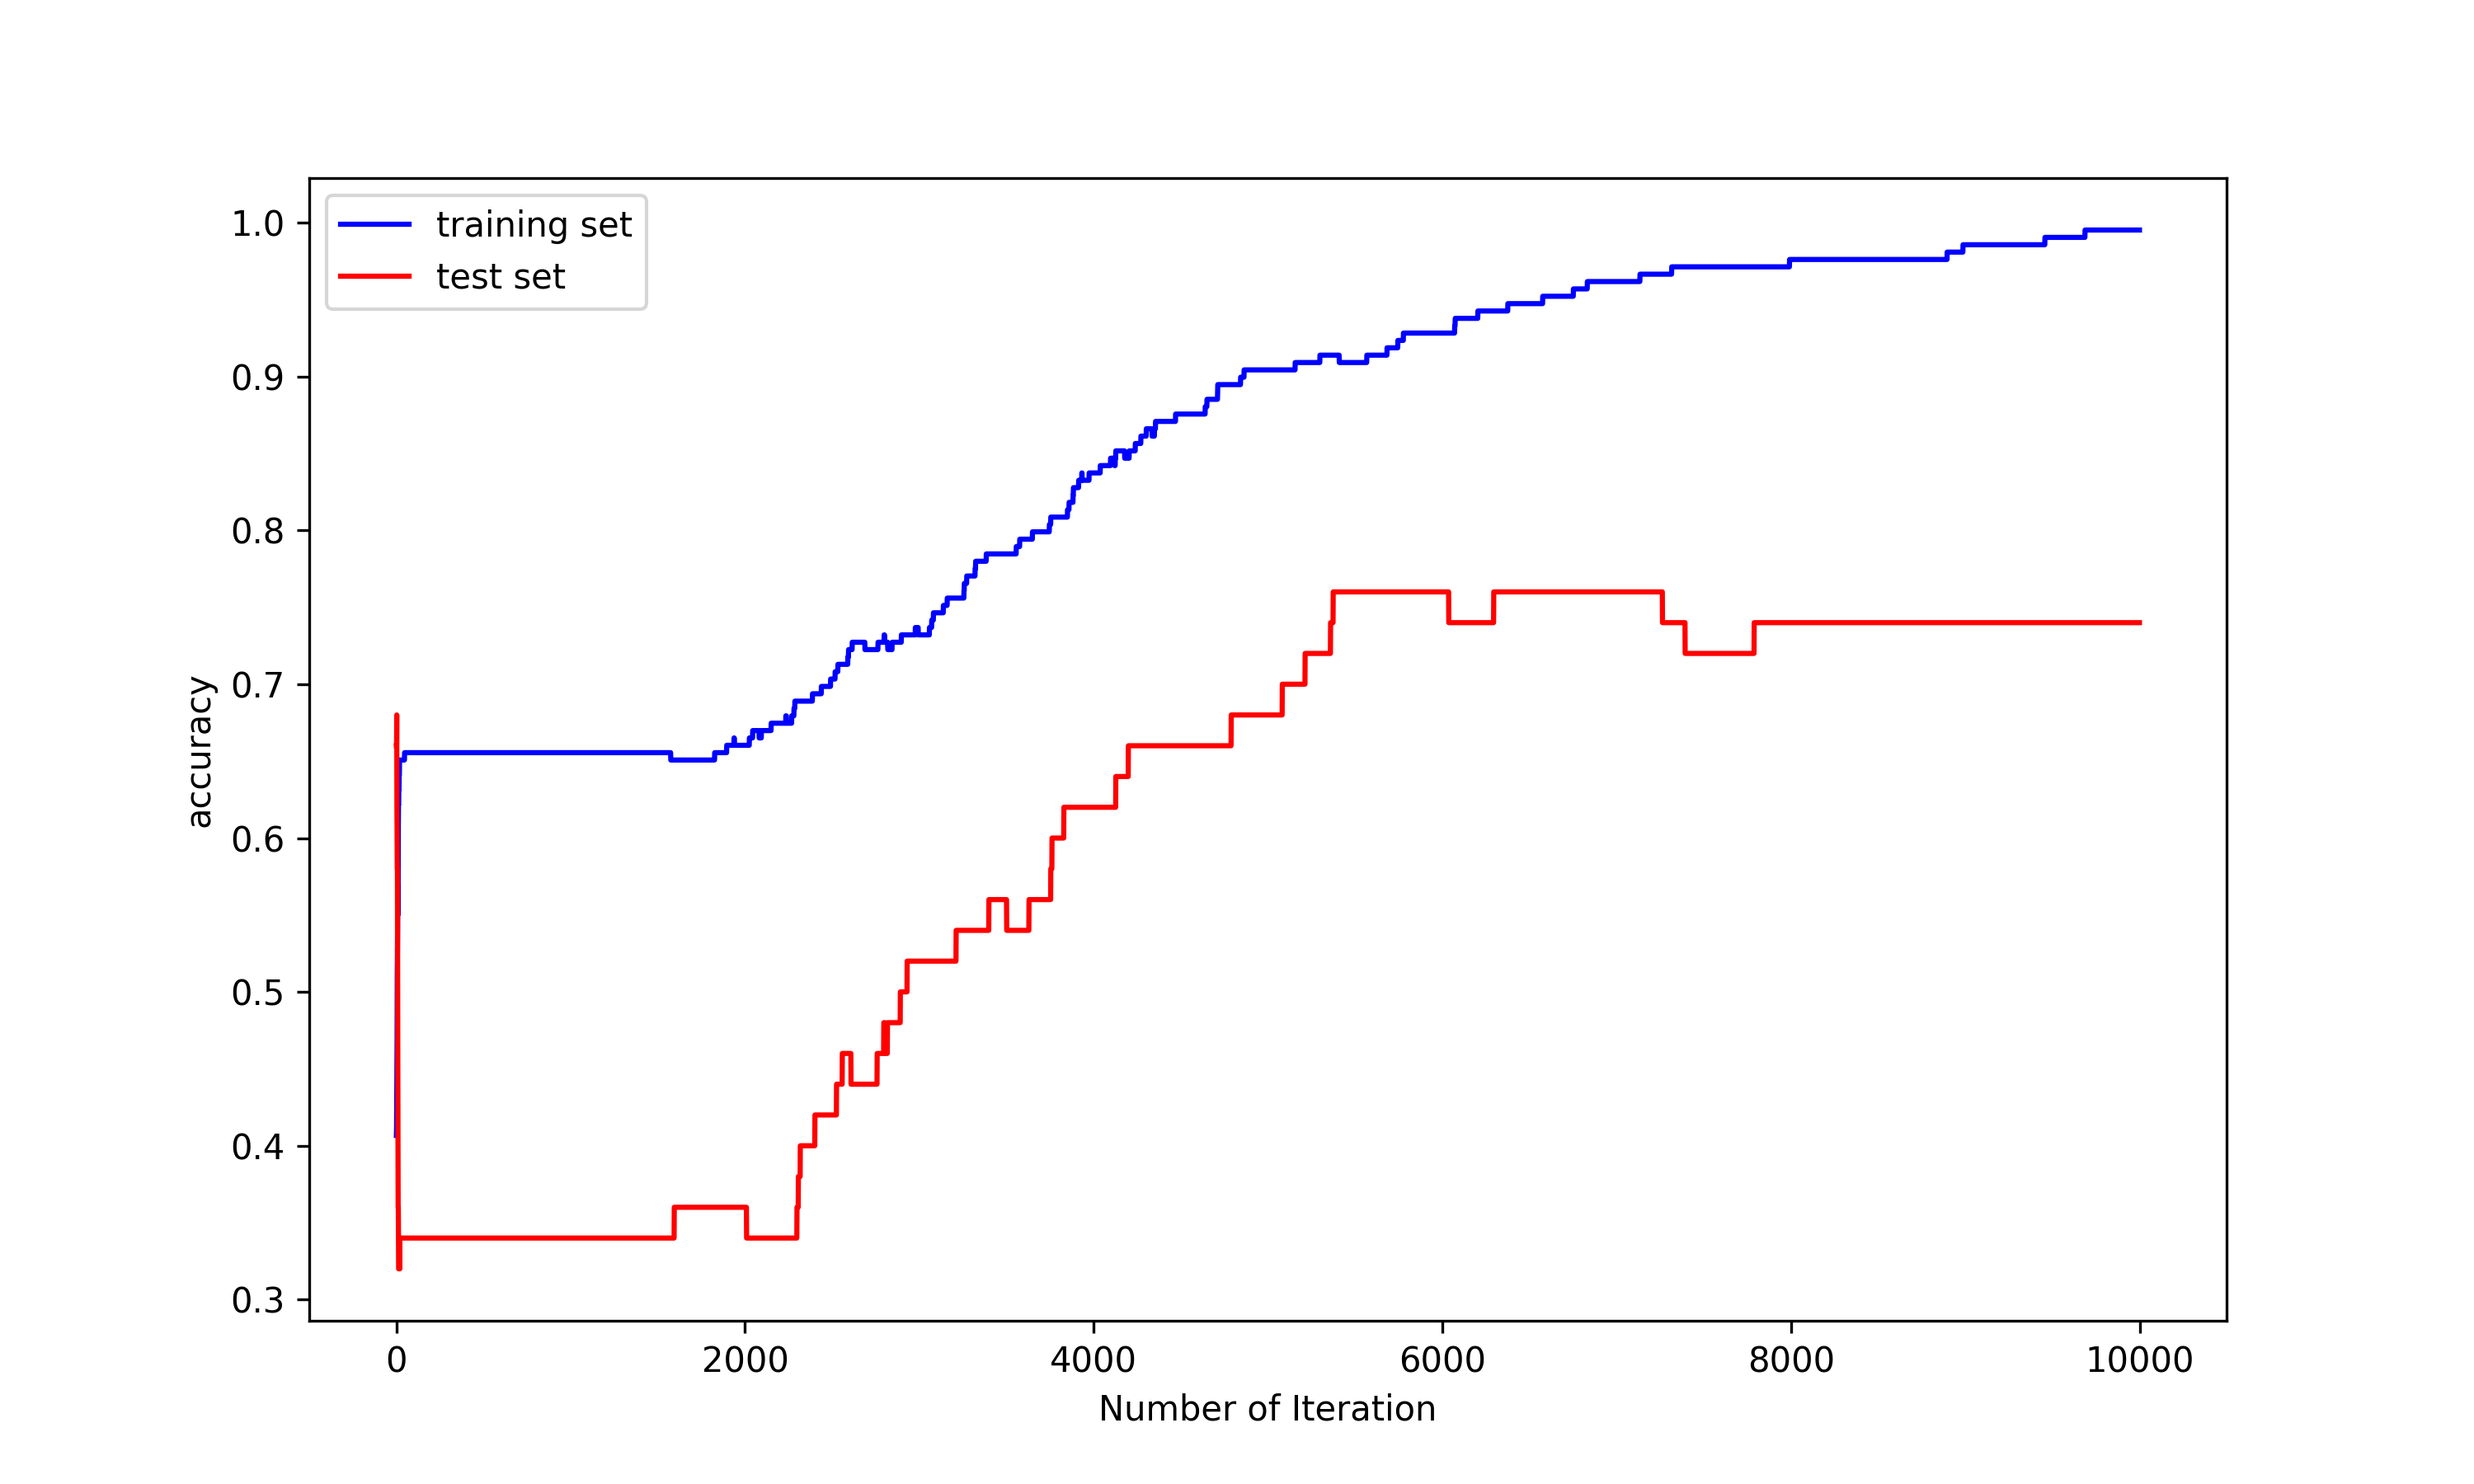
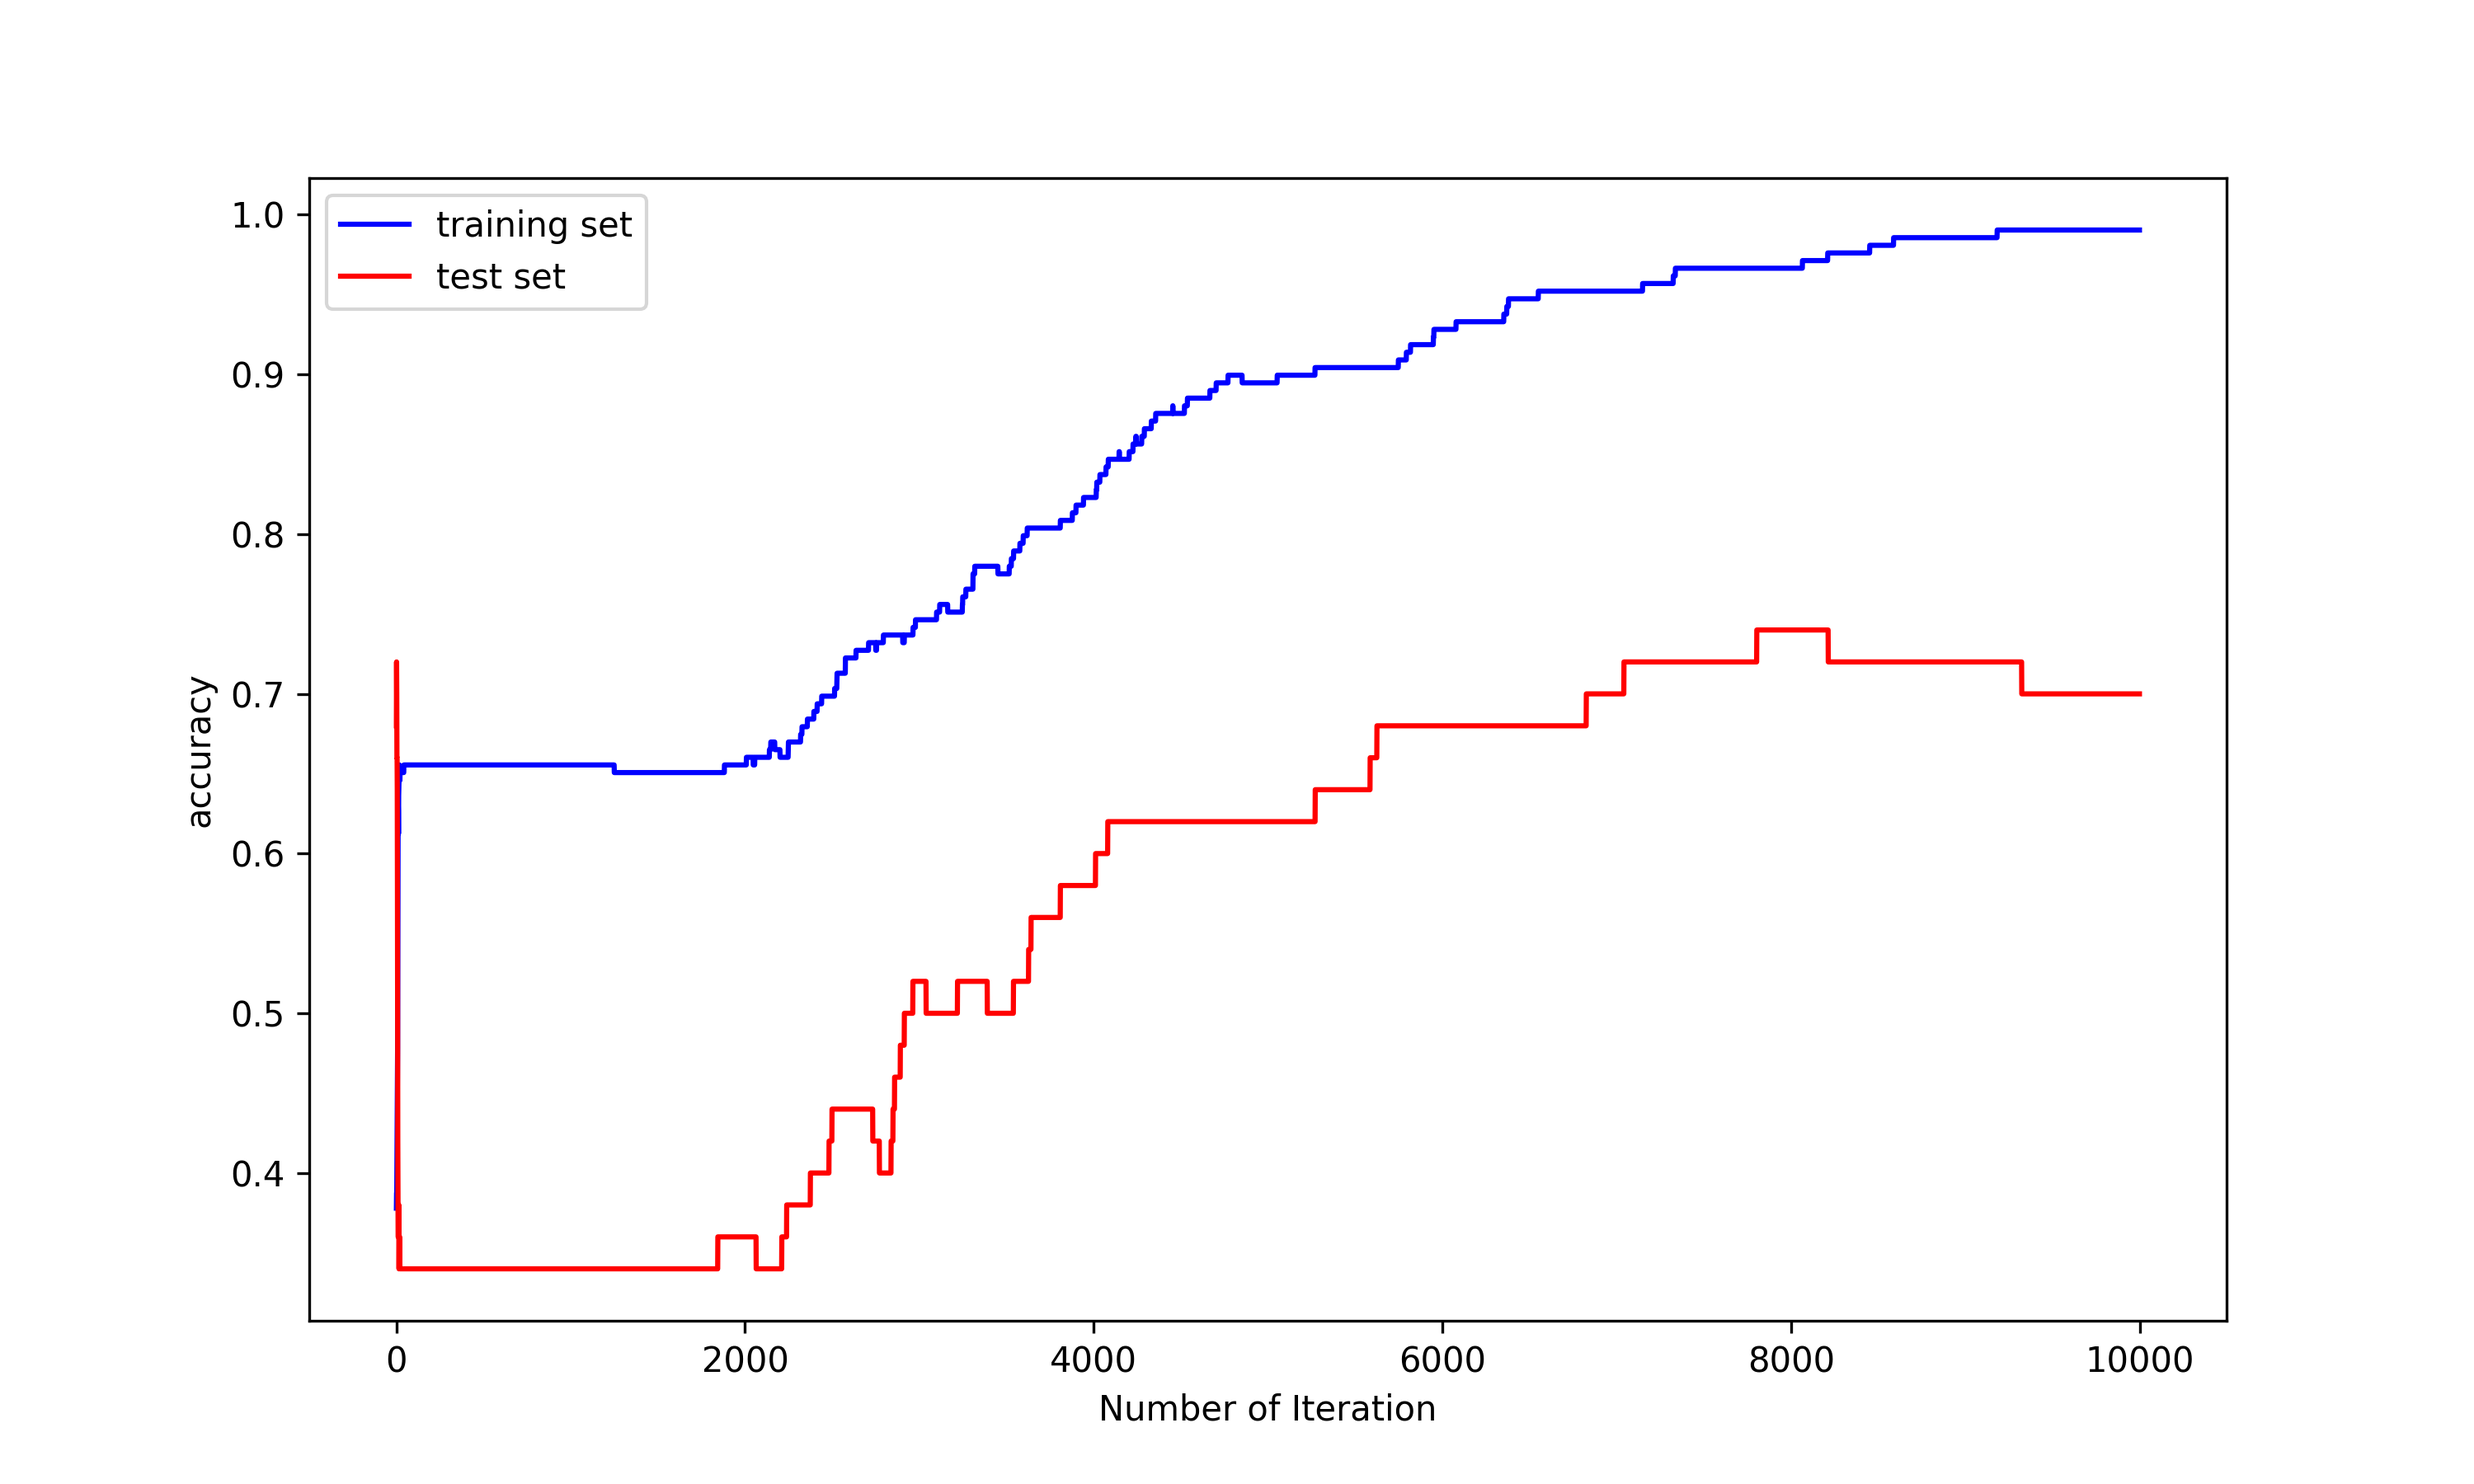
some changes.

diff --git a/one_hidden_layer/main_second.py b/one_hidden_layer/main_second.py
@@ -46,6 +46,35 @@ class OneHiddenLayer:
         y_test = np.array(dataset_test["test_set_y"])
         self._y["test"] = np.reshape(y_test, (1, len(y_test)))
 
+    def _load_planar_dataset(self):
+        np.random.seed(1)
+        m = 400  # number of examples
+        N = int(m / 2)  # number of points per class
+        D = 2  # dimensionality
+        X = np.zeros((m, D))  # data matrix where each row is a single example
+        Y = np.zeros((m, 1), dtype='uint8')  # labels vector (0 for red, 1 for blue)
+        a = 4  # maximum ray of the flower
+
+        for j in range(2):
+            ix = range(N * j, N * (j + 1))
+            t = np.linspace(j * 3.12, (j + 1) * 3.12, N) + np.random.randn(N) * 0.2  # theta
+            r = a * np.sin(4 * t) + np.random.randn(N) * 0.2  # radius
+            X[ix] = np.c_[r * np.sin(t), r * np.cos(t)]
+            Y[ix] = j
+
+        X = X.T  # (n, m)
+        Y = Y.T  # (1, m)
+
+        self._m["train"] = 350
+        self._m["test"] = 50
+        self._x["train"] = X[:, :self._m["train"]]
+        self._n[0] = self._x["train"].shape[0]
+        self._x["test"] = X[:, self._m["train"]:]
+        self._y["train"] = Y[:, :self._m["train"]]
+        self._n[2] = self._y["train"].shape[0]
+        self._y["test"] = Y[:, self._m["test"]:]
+
+
     @staticmethod
     def _sigmoid(i):
 
@@ -127,7 +156,7 @@ class OneHiddenLayer:
 
     def solve(self):
 
-        self._load_dataset()
+        self._load_planar_dataset()
 
         self._initialize_parameters()
 
